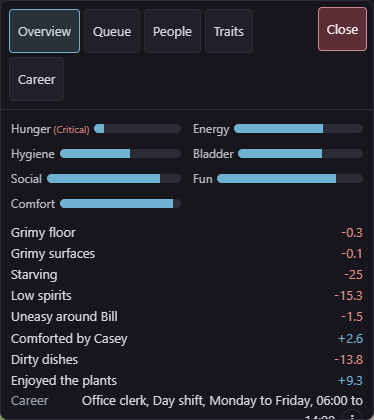
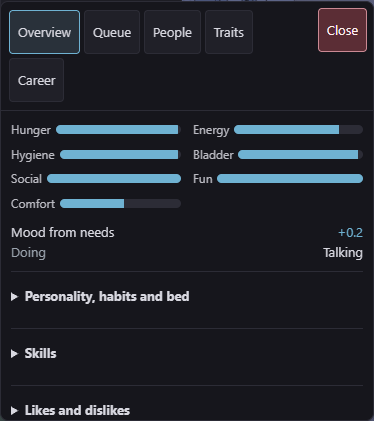
Verify the lower mood rate and refresh the player guide

diff --git a/crates/terri-sim/src/activity_log_tests.rs b/crates/terri-sim/src/activity_log_tests.rs
@@ -525,7 +525,11 @@ fn assert_log_never_changes_the_world(days: usize) -> (Vec<u64>, Vec<LogRecord>)
 /// from 0xfa65_449b_54d0_bb84 to 0x7d8f_c646_2384_8e1f, because the shipped
 /// household settles scored shifts in two days; nothing else moved (checked by
 /// turning the block off). Read from the failing assertion.
-const TWO_DAY_FOLD_WITHOUT_THE_LOG: u64 = 0x7d8f_c646_2384_8e1f;
+/// Accumulated mood from needs then moved the fold from 0x7d8f_c646_2384_8e1f.
+/// Each person's balance enters the hash and contributes to the mood read
+/// by settled shifts and other systems. Measured with the log off on the
+/// combined Career tab and need mood build.
+const TWO_DAY_FOLD_WITHOUT_THE_LOG: u64 = 0x6bc5_5246_1d3d_2532;
 
 /// The same fold over twenty game days, measured the same way. Main at
 /// 6d92fc561 measured 0x8381_918c_1bdb_58be; issue 296 moved it for the
@@ -574,11 +578,15 @@ const TWO_DAY_FOLD_WITHOUT_THE_LOG: u64 = 0x7d8f_c646_2384_8e1f;
 /// weekly score inputs join the world hash once a shift settles): with that
 /// block's call in `Sim::hash` switched off, this branch gives the old value
 /// again. Measured in a release build from the failing assertion.
-const TWENTY_DAY_FOLD_WITHOUT_THE_LOG: u64 = 0x9bba_4ce9_923d_44e4;
+/// Accumulated mood from needs moved this from 0x9bba_4ce9_923d_44e4.
+/// Measured from the same log-off run as the two-day fold.
+const TWENTY_DAY_FOLD_WITHOUT_THE_LOG: u64 = 0xee9d_be3f_687c_dc5c;
 
 /// Issue 309: the two-day fold with the log off, the work lateness limit at
 /// 0 and the work Bladder relief at 0 is the shipped two-day value above
-/// (0x7d8f_c646_2384_8e1f, from 0xfa65_449b_54d0_bb84 before the career inputs block; main's value before issue 344's fade was
+/// (0x6bc5_5246_1d3d_2532, from 0x7d8f_c646_2384_8e1f before accumulated
+/// mood from needs and 0xfa65_449b_54d0_bb84 before the career inputs block;
+/// main's value before issue 344's fade was
 /// 0x6ed5_8e35_ffc8_2f8d). That shows that switching the two knobs off
 /// changes nothing here. It does not show that the knobs move the shipped
 /// household: in its first two days nobody is critical at a shift start or
@@ -597,11 +605,12 @@ fn the_two_day_fold_without_the_work_knobs_is_unchanged() {
 /// off reproduces an earlier tree; it only catches a later change to the
 /// knobs-off run. Manual, like the pin above. Issues 311 and 317 moved it from
 /// 0xd56e_4229_4318_c6fd only through the `career-inputs-v1` hash block, as
-/// for the constant above.
+/// for the constant above. Accumulated mood from needs moved it again from
+/// 0x4010_87ef_b43d_dcac, measured with both work settings off.
 #[test]
 #[ignore = "manual check: twenty game days; run with --release and --ignored"]
 fn the_twenty_day_fold_without_the_work_knobs_is_unchanged() {
-    assert_eq!(fold_without_the_work_knobs(20), 0x4010_87ef_b43d_dcac);
+    assert_eq!(fold_without_the_work_knobs(20), 0xf3ba_92d7_8ed8_2f51);
 }
 
 /// The fold of the shipped household's per-tick hashes over `days` game
@@ -636,7 +645,7 @@ fn activity_log_never_changes_the_world() {
     assert_eq!(
         fold(&hashes),
         TWO_DAY_FOLD_WITHOUT_THE_LOG,
-        "the world differs from main without the log"
+        "the shipped household replay drifted"
     );
     let pack = terri_data::pack();
     let labels = crate::activity_log::labels(pack);
@@ -688,7 +697,7 @@ fn activity_log_never_changes_the_world_over_twenty_days() {
     assert_eq!(
         fold(&hashes),
         TWENTY_DAY_FOLD_WITHOUT_THE_LOG,
-        "the world differs from main without the log"
+        "the shipped household replay drifted"
     );
     assert_every_line_can_show(&records);
     // The two-day check used to see a nuisance episode; twenty days must.

diff --git a/crates/terri-sim/src/mood.rs b/crates/terri-sim/src/mood.rs
@@ -1674,11 +1674,9 @@ mod tests {
             "every snack fills hunger the same: {refills:?}"
         );
 
-        // While both stand, satisfaction falls. Without them his mood
-        // would sit inside the neutral band, which costs nothing, so the
-        // fall is theirs.
+        // While both stand, compare the satisfaction loss with the
+        // same minute after removing only those two penalties.
         const STRETCH: u64 = 200;
-        let band = tuning.satisfaction_mood_neutral_band;
         let satisfaction = |sim: &Sim| sim.world().get::<Satisfaction>(tim).unwrap().value();
         let start = clock(&sim);
         let satisfied_before = satisfaction(&sim);
@@ -1689,7 +1687,8 @@ mod tests {
             assert_eq!(sick(&snapshot), 1, "Feeling sick stands");
             let without = snapshot.overall_score - overdone + tuning.sick_penalty;
             assert!(
-                snapshot.overall_score < -band && without.abs() < band,
+                super::satisfaction_change(snapshot.overall_score, &tuning)
+                    < super::satisfaction_change(without, &tuning),
                 "{} with the two moodlets, {without} without",
                 snapshot.overall_score
             );

diff --git a/crates/terri-sim/src/current_test_snapshot.rs b/crates/terri-sim/src/current_test_snapshot.rs
@@ -60,12 +60,30 @@ pub(crate) struct CurrentV17View(pub SaveSnapshotV27);
 impl std::ops::Deref for CurrentV17View {
     type Target = SaveSnapshotV17;
     fn deref(&self) -> &Self::Target {
-        &self.0.legacy.legacy.legacy.legacy.legacy.legacy.legacy.legacy
+        &self
+            .0
+            .legacy
+            .legacy
+            .legacy
+            .legacy
+            .legacy
+            .legacy
+            .legacy
+            .legacy
     }
 }
 impl std::ops::DerefMut for CurrentV17View {
     fn deref_mut(&mut self) -> &mut Self::Target {
-        &mut self.0.legacy.legacy.legacy.legacy.legacy.legacy.legacy.legacy
+        &mut self
+            .0
+            .legacy
+            .legacy
+            .legacy
+            .legacy
+            .legacy
+            .legacy
+            .legacy
+            .legacy
     }
 }
 impl Sim {

diff --git a/crates/terri-wasm/src/career_inputs_v23_tests.rs b/crates/terri-wasm/src/career_inputs_v23_tests.rs
@@ -31,7 +31,11 @@ fn schema_twenty_three_saves_load_with_no_inputs_and_continue() {
         let mut migrated = SimHandle::from_lot();
         assert!(migrated.load_bytes(bytes), "{name}");
         let current = migrated.save_bytes();
-        assert_eq!(&current[8..10], &SAVE_SCHEMA_VERSION.to_le_bytes(), "{name}");
+        assert_eq!(
+            &current[8..10],
+            &SAVE_SCHEMA_VERSION.to_le_bytes(),
+            "{name}"
+        );
         let saved = decode_current(&current);
         assert!(saved.need_mood.is_empty(), "{name}");
         let saved = saved.legacy;

diff --git a/crates/terri-wasm/src/lib.rs b/crates/terri-wasm/src/lib.rs
@@ -11190,11 +11190,11 @@ mod shift_save_tests;
 #[cfg(test)]
 mod bills_boundary_tests;
 #[cfg(test)]
-mod need_mood_boundary_tests;
-#[cfg(test)]
 mod career_inputs_v23_tests;
 #[cfg(test)]
 mod career_tab_boundary_tests;
+#[cfg(test)]
+mod need_mood_boundary_tests;
 #[cfg(test)]
 mod presence_fade_boundary_tests;
 
